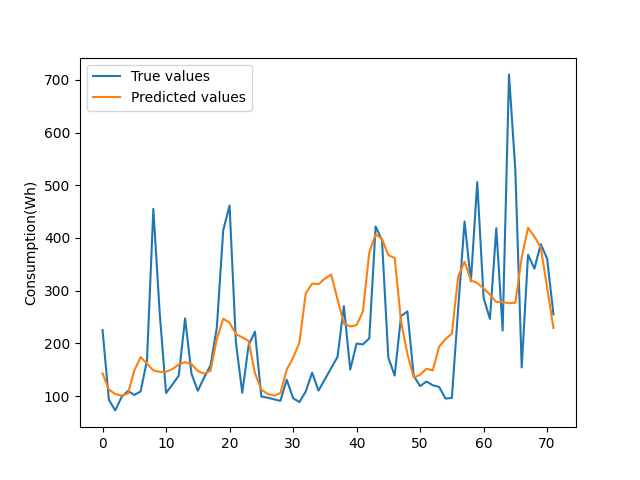
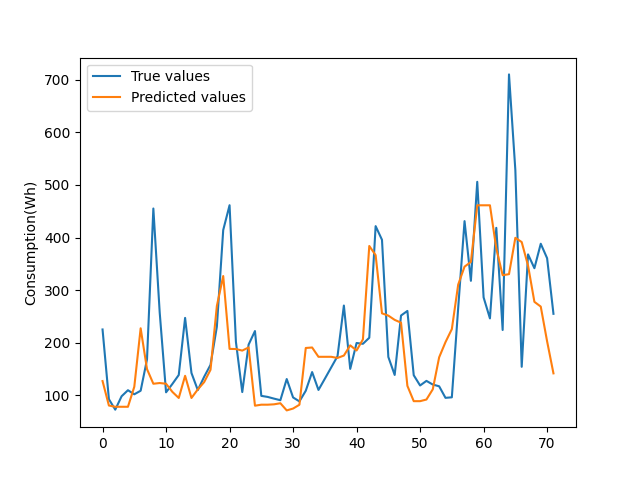
working on a new feature

diff --git a/Models/XGB.py b/Models/XGB.py
@@ -60,7 +60,7 @@ if __name__ == '__main__':
     df = pd.read_csv('../Datasets/one_year_09_datetime.csv', index_col=["Datetime"],
                              parse_dates=["Datetime"])
 
-    train_set = df[:'2021-05-28 00:00:00']
+    train_set = df['2021-04-28 00:00:00':'2021-05-28 00:00:00']
     test_set = df['2021-05-28 00:00:00':]
 
     x_train = np.transpose([train_set[var].to_numpy() for var in variables09])
@@ -68,13 +68,13 @@ if __name__ == '__main__':
     x_test = np.transpose([test_set[var].to_numpy() for var in variables09])
     y_test = test_set["Consumption(Wh)"]
     print("Agrregated accuracy")
-    print(XGB_regressor_model(set=[x_train, y_train, x_test, y_test]))
+    print(XGB_regressor_model(set=[x_train, y_train, x_test, y_test], scale=True))
 
     variables10 = ['Minutes', 'Month', 'Weekend', 'Temperature', 'Snowfall', 'Pressure']
     df = pd.read_csv('../Datasets/one_year_10_datetime.csv', index_col=["Datetime"],
                              parse_dates=["Datetime"])
 
-    train_set = df[:'2021-02-05 00:00:00']
+    train_set = df['2021-1-05 00:00:00':'2021-02-05 00:00:00']
     test_set = df['2021-02-05 00:00:00':]
 
     x_train = np.transpose([train_set[var].to_numpy() for var in variables09])
@@ -82,5 +82,5 @@ if __name__ == '__main__':
     x_test = np.transpose([test_set[var].to_numpy() for var in variables09])
     y_test = test_set["Consumption(Wh)"]
     print("Agrregated accuracy")
-    print(XGB_regressor_model(set=[x_train, y_train, x_test, y_test]))
+    print(XGB_regressor_model(set=[x_train, y_train, x_test, y_test], scale=True))
 

diff --git a/data_preprocessing.py b/data_preprocessing.py
@@ -1,6 +1,6 @@
 import matplotlib.pyplot as plt
 import pandas as pd
-from datetime import datetime
+from datetime import datetime, timedelta
 
 
 def get_data_csv_10():
@@ -161,5 +161,15 @@ def datetime_format(filename):
     df["Datetime"] = new_datetime
     df.to_csv(filename[:-4]+"_datetime.csv")
 
+
+def mean_cons_by_hour(filename):
+    df = pd.read_csv(filename)
+    dates = [datetime.fromisoformat(d) for d in df['Datetime']]
+    first_date = dates[0]
+    print(first_date)
+    print(first_date - timedelta(weeks=1))
+
+
+
 if __name__ == '__main__':
-    datetime_format('Datasets/one_year_09.csv')
+    mean_cons_by_hour('Datasets/one_year_10_datetime.csv')
